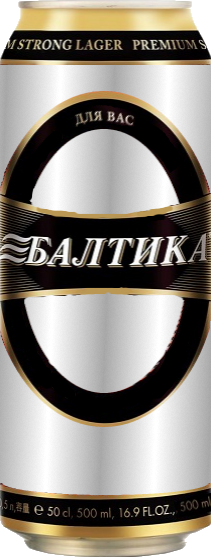
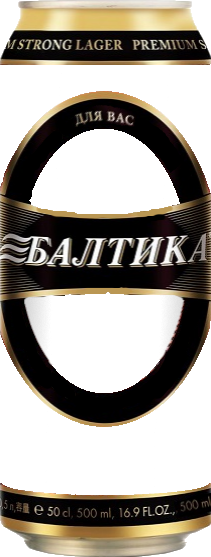
Add files via upload

diff --git a/gen/index.html b/gen/index.html
@@ -37,7 +37,9 @@
 		var canv = document.getElementById("canvas");
 		var ctx  = canv.getContext("2d");
 		var masks = new Image();
+		var shadow= new Image();
 		masks.src= "mask.png";
+		shadow.src= "shad.png";
 		var balticnum=rand(0,123);
 		var baltype=getType();
 		function getAlc(){
@@ -85,6 +87,7 @@
 			ctx.fillText(baltype,104,179);
 			ctx.strokeText(balalc,104,469);
 			ctx.fillText(balalc,104,469);
+			ctx.drawImage(shadow,0,0);
 		}
 
 	</script>
